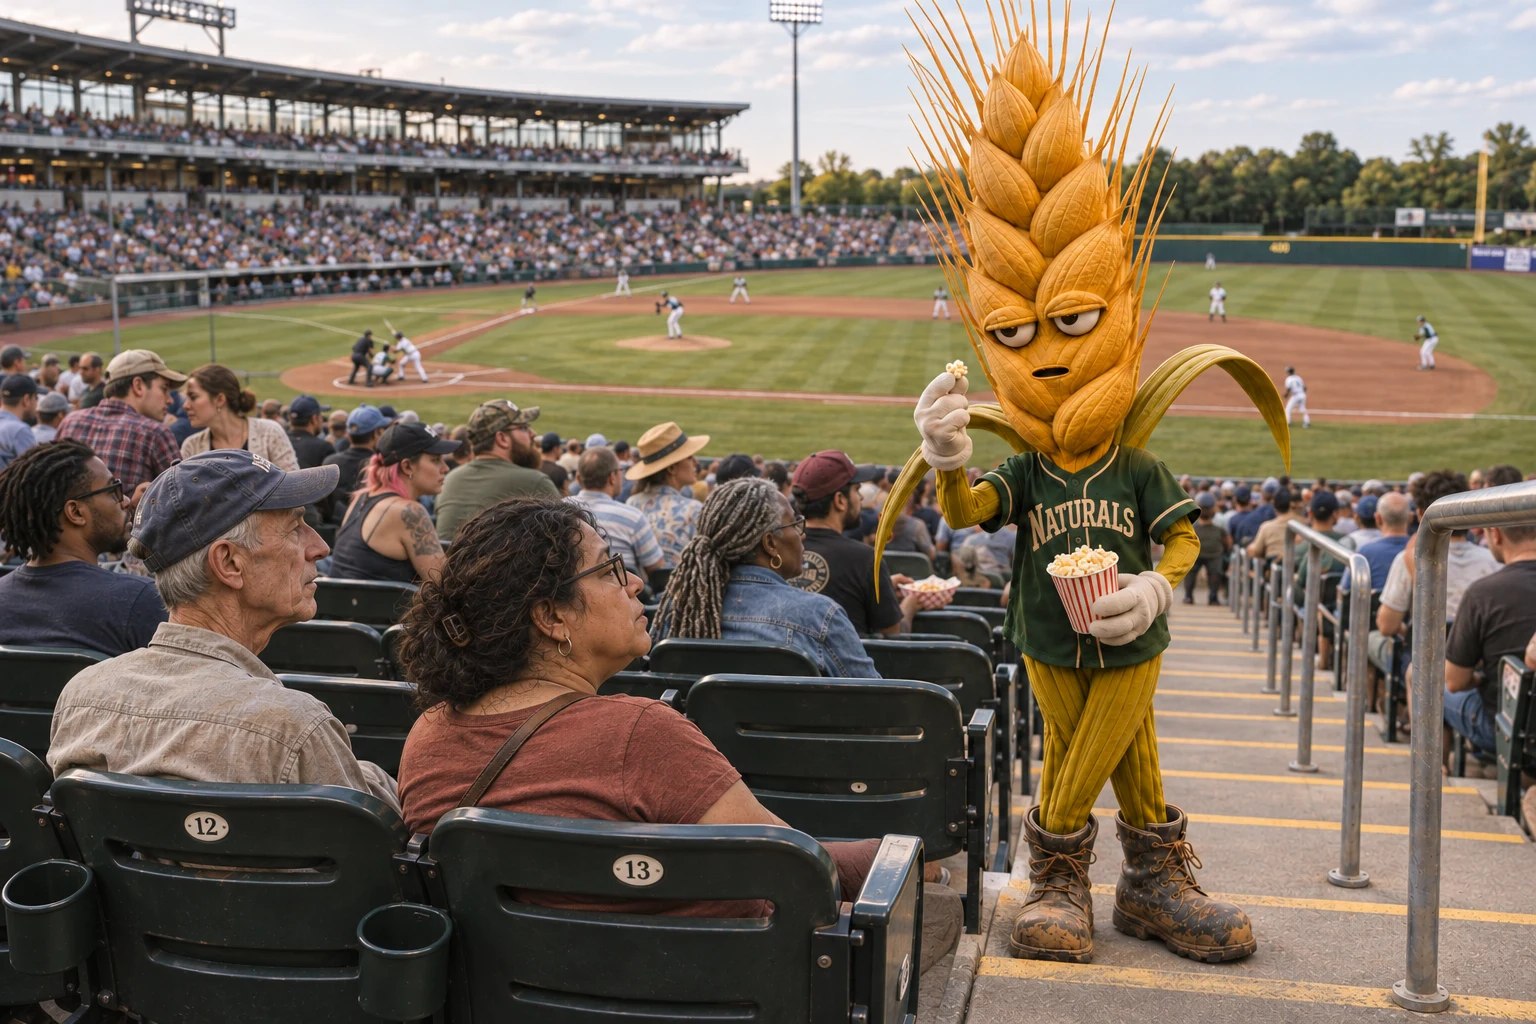
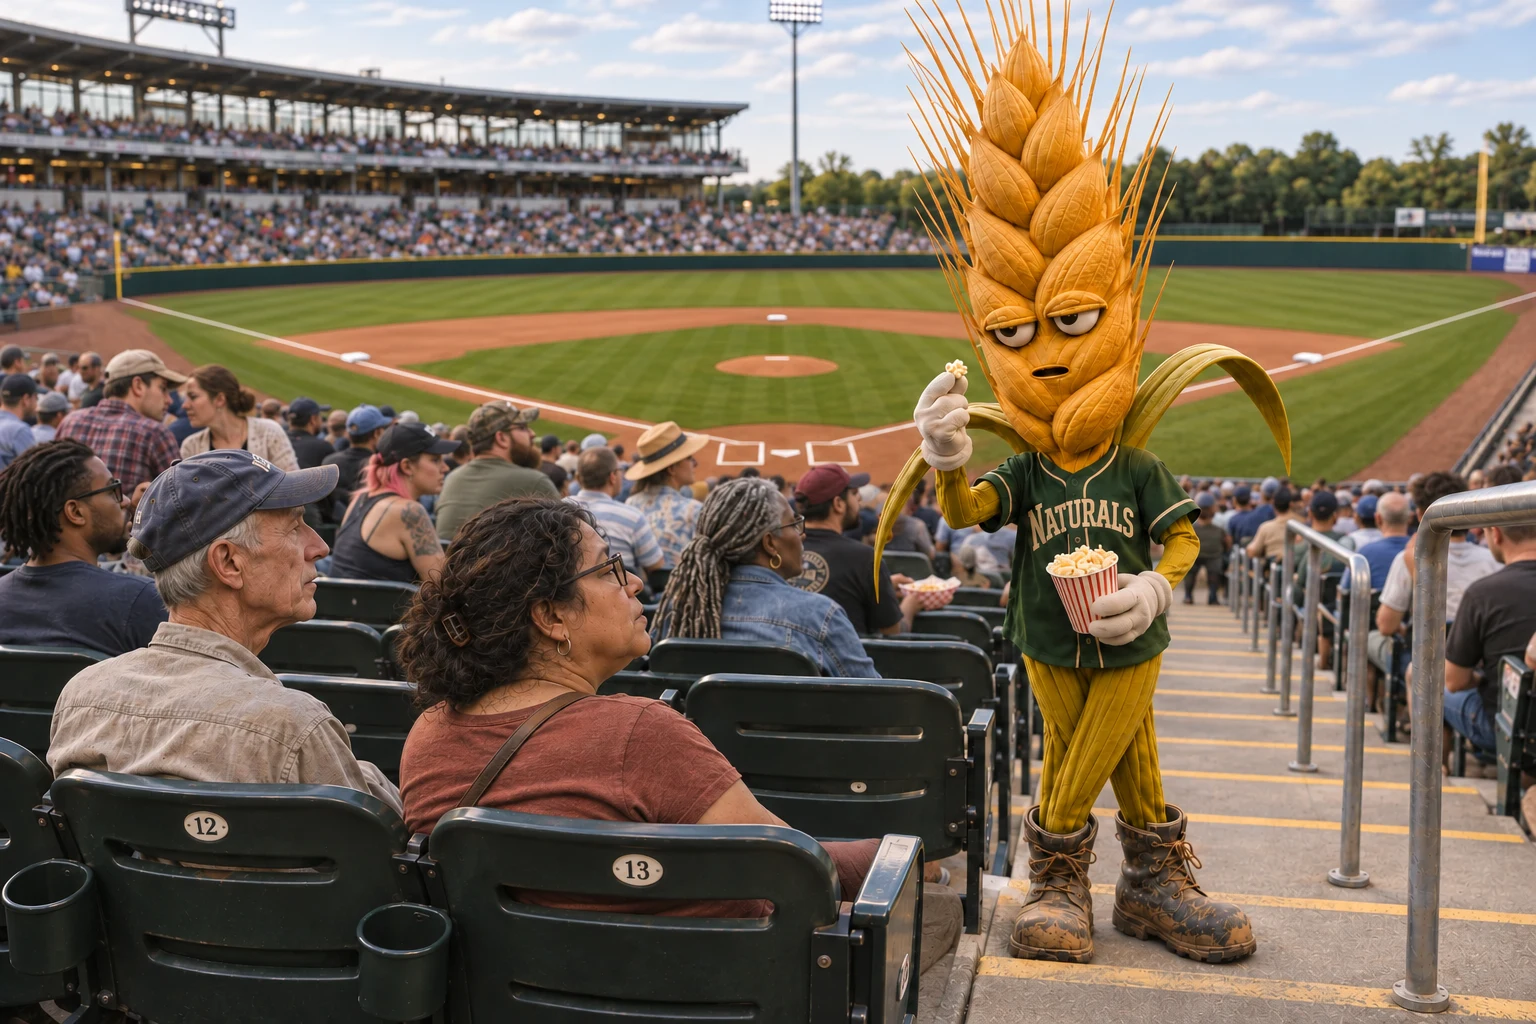
Correct the diamond behind Sprig and refresh both Louisville images

diff --git a/team-louisville-naturals.html b/team-louisville-naturals.html
@@ -14,4 +14,4 @@ main.louisville-page{display:block;max-width:1240px}.louisville-page>section{mar
 </header>
 <main class="louisville-page">
 <section class="team-hero" data-team-depth="image"><img class="team-hero-image" src="assets/teams/louisville-naturals/images/limestone-sessions-candid.webp" alt="A contemporary bluegrass crew plays to a busy concourse from the broad porch of the Limestone Sessions" width="1536" height="1024" fetchpriority="high"><div class="team-hero-shade"></div><div class="team-hero-inner"><div class="team-kicker">Louisville, Kentucky · Americas Division</div><h1>Louisville Naturals</h1><p>A porch set. A ballgame. Stay a while.</p><a href="#entertainment" style="color:white;text-decoration:underline">The Limestone Sessions →</a></div></section>
-<nav class="lou-nav" aria-label="Louisville sections"><a href="#season">Season</a><a href="#cards">Players</a><a href="#roster">Roster</a><a href="#entertainment">Limestone Sessions</a><a href="#big-soft">BIG SOFT</a><a href="#landing">The Big Soft Landing</a><a href="#donk">Flo Troup</a><a href="#voices">Game voices</a></nav><section class="panel full" id="season"><h2>Season snapshot</h2><div class="lou-copy"><p class="lou-meta" id="record-date">2026 season · Loading the current record</p><div class="summary"><div><strong id="stat-record">—</strong><span>Record</span></div><div><strong id="stat-pct">—</strong><span>Win %</span></div><div><strong id="stat-runs">—</strong><span>Runs</span></div><div><strong id="stat-allowed">—</strong><span>Allowed</span></div><div><strong id="stat-diff">—</strong><span>Difference</span></div></div><p><strong>Manager:</strong> Everett “Fieldnote” Lane · <strong>Home:</strong> The Limestone Grounds</p><a href="standings.html">View standings →</a></div></section><section class="panel full" id="cards"><h2>Players</h2><div class="lou-copy"><p>Click a card to flip it over. Claim a player and help build their story. Players and other artifacts across GLB can be claimed, curated and crafted — by you. Look for unclaimed artifacts, then click to claim, craft your submission, and submit it to the GLB Board for review. If accepted, you’ll receive a 16-character claim code and we’ll post the artifact with your content and an attribution to the User ID you provide.</p></div><div id="louisvilleCards" class="tpe-card-grid" aria-live="polite"><p>Loading the Louisville collection…</p></div><noscript><p class="lou-copy">Enable JavaScript to flip and claim cards. The complete roster is below.</p></noscript></section><section class="panel full" id="roster"><h2>Active roster</h2><div class="lou-table"><table><thead><tr><th>Player</th><th>Pos</th><th>B/T</th><th>Age</th><th>Card</th></tr></thead><tbody><tr><td><a href="player.html?team=louisville-naturals&amp;player=gabriel-ionescu">Gabriel Ionescu</a></td><td>SP</td><td>R/R</td><td>29</td><td><a href="#card-lou-01">LOU-01</a></td></tr><tr><td><a href="player.html?team=louisville-naturals&amp;player=mateo-alvarez">Mateo Álvarez</a></td><td>SP</td><td>L/L</td><td>27</td><td><a href="#card-lou-02">LOU-02</a></td></tr><tr><td><a href="player.html?team=louisville-naturals&amp;player=calvin-rhodes">Calvin Rhodes</a></td><td>SP</td><td>R/R</td><td>31</td><td><a href="#card-lou-03">LOU-03</a></td></tr><tr><td><a href="player.html?team=louisville-naturals&amp;player=santiago-correa">Santiago Correa</a></td><td>SP</td><td>R/R</td><td>26</td><td><a href="#card-lou-04">LOU-04</a></td></tr><tr><td><a href="player.html?team=louisville-naturals&amp;player=darius-okonkwo">Darius Okonkwo</a></td><td>SP</td><td>R/R</td><td>25</td><td><a href="#card-lou-05">LOU-05</a></td></tr><tr><td><a href="player.html?team=louisville-naturals&amp;player=evan-sutter">Evan Sutter</a></td><td>RP</td><td>R/R</td><td>28</td><td><a href="#card-lou-06">LOU-06</a></td></tr><tr><td><a href="player.html?team=louisville-naturals&amp;player=luis-delgado">Luis Delgado</a></td><td>RP</td><td>L/L</td><td>30</td><td><a href="#card-lou-07">LOU-07</a></td></tr><tr><td><a href="player.html?team=louisville-naturals&amp;player=kieran-walsh">Kieran Walsh</a></td><td>RP</td><td>R/R</td><td>27</td><td><a href="#card-lou-08">LOU-08</a></td></tr><tr><td><a href="player.html?team=louisville-naturals&amp;player=noah-bianchi">Noah Bianchi</a></td><td>C</td><td>R/R</td><td>29</td><td><a href="#card-lou-09">LOU-09</a></td></tr><tr><td><a href="player.html?team=louisville-naturals&amp;player=mateo-fernandez">Mateo Fernández</a></td><td>1B</td><td>L/R</td><td>32</td><td><a href="#card-lou-10">LOU-10</a></td></tr><tr><td><a href="player.html?team=louisville-naturals&amp;player=jalen-brooks">Jalen Brooks</a></td><td>2B</td><td>S/R</td><td>24</td><td><a href="#card-lou-11">LOU-11</a></td></tr><tr><td><a href="player.html?team=louisville-naturals&amp;player=rafael-costa">Rafael Costa</a></td><td>SS</td><td>R/R</td><td>26</td><td><a href="#card-lou-12">LOU-12</a></td></tr><tr><td><a href="player.html?team=louisville-naturals&amp;player=dominic-russo">Dominic Russo</a></td><td>3B</td><td>R/R</td><td>28</td><td><a href="#card-lou-13">LOU-13</a></td></tr><tr><td><a href="player.html?team=louisville-naturals&amp;player=andre-wallace">Andre Wallace</a></td><td>CF</td><td>R/R</td><td>27</td><td><a href="#card-lou-14">LOU-14</a></td></tr><tr><td><a href="player.html?team=louisville-naturals&amp;player=tomas-rivas">Tomás Rivas</a></td><td>LF</td><td>L/L</td><td>25</td><td><a href="#card-lou-15">LOU-15</a></td></tr><tr><td><a href="player.html?team=louisville-naturals&amp;player=blake-harrison">Blake Harrison</a></td><td>RF</td><td>R/R</td><td>31</td><td><a href="#card-lou-16">LOU-16</a></td></tr></tbody></table></div></section><section class="panel full" id="results"><h2>Recent results</h2><div class="lou-copy"><div id="recent-results"><a href="schedule.html?team=louisville-naturals">View the league schedule →</a></div></div></section><section class="panel full" id="entertainment"><h2>The Limestone Sessions</h2><div class="lou-copy"><figure><img src="assets/teams/louisville-naturals/images/limestone-sessions-candid.webp" alt="Fans gather, chat and pass through as a contemporary bluegrass crew plays from the concourse porch" width="1536" height="1024" loading="lazy"></figure><span class="lou-meta">Resident entertainment · Contemporary bluegrass</span><p>Fiddle, banjo, mandolin, acoustic guitar and upright bass spill off the wide porch. Close harmonies ride above the picking; people gather near the stage, stop with their food or listen from the concourse tables.</p><p>The crew brings a raw edge to the set. The porch belongs to the park, with the game still in view beyond the crowd.</p></div></section><section class="panel full" id="big-soft"><h2>BIG SOFT</h2><div class="lou-copy"><span class="lou-meta">Mattresses · Pillows · Bedding</span><h3>Comfort on an unreasonable scale.</h3><p>BIG SOFT makes mattresses, pillows and bedding. Its cream-and-burgundy lettering turns up on oversized cushions, the lounge terrace and one extremely upholstered Cadillac.</p><p>The brand takes comfort seriously. Everyone else is welcome to find that funny.</p></div></section><section class="panel full" id="landing"><h2>The Big Soft Landing</h2><div class="lou-copy"><figure><img src="assets/teams/louisville-naturals/images/big-soft-landing-candid.webp" alt="Fans watch baseball and talk from oversized cream-and-burgundy sofas on the Big Soft Landing terrace" width="1536" height="1024" loading="lazy"></figure><span class="lou-meta">BIG SOFT fan experience · Concourse terrace</span><p>Enormous sofas and quilted loungers overlook the field. Take a seat, disappear slightly into the upholstery, and keep an eye on the game. The armrests are bigger than some people’s seats elsewhere in the park.</p></div></section><section class="panel full" id="donk"><h2>DONK · Flo Troup</h2><div class="lou-copy"><figure><img src="assets/teams/louisville-naturals/images/flo-troup-big-soft-cadillac.webp" alt="Flo Troup in her quilted cream-and-burgundy Cadillac beside the tall DONK measuring tower" width="1536" height="1024" loading="lazy"></figure><span class="lou-meta">Driver · Flo Troup</span><h3>A Cadillac with excellent lumbar support.</h3><p>Flo brings an older Cadillac Coupe de Ville in cream and burgundy, with quilted body panels, oversized polished wheels and BIG SOFT across the doors. A small pillow sits in the plush rear cabin.</p><p>She works the hydraulics from the driver’s seat while the crew watches the DONK height gauge. Flo remains almost impressively unimpressed.</p></div></section><section class="panel full" id="stadium"><h2>The Limestone Grounds</h2><div class="lou-copy"><figure><img src="club-louisville-naturals-stadium.png" alt="The Limestone Grounds baseball park" loading="lazy"></figure><p>Stone, grass and open sightlines. The broad concourse connects the seating bowl, the Sessions porch and the Big Soft Landing.</p></div></section><section class="panel full" id="voices"><h2>Game voices</h2><div class="lou-copy"><div class="lou-split"><article><img class="portrait" src="club-louisville-naturals-broadcast.png" alt="Hank Mercer at the broadcast microphone" loading="lazy"><h3>Hank Mercer</h3><p><strong>Play-by-play.</strong> Keeps the count clear and leaves room for the crowd.</p><div id="claim-lou-broadcast" class="glb-voice-claim"></div></article><article><img class="portrait" src="club-louisville-naturals-announcer.png" alt="Casey Wilder, in-stadium announcer" loading="lazy"><h3>Casey Wilder</h3><p><strong>In-stadium announcer.</strong> Lineups, substitutions and announcements carry across the Grounds.</p><div id="claim-lou-announcer" class="glb-voice-claim"></div></article></div></div></section><section class="panel full" id="mascot"><h2>Sprig</h2><div class="lou-copy"><figure><img src="assets/teams/louisville-naturals/images/sprig-popcorn-candid.webp?v=1" alt="Sprig, Louisville’s wheat-headed mascot in a green Naturals jersey and work boots, inspects popcorn beside fans watching the game" width="1536" height="1024" loading="lazy"></figure><p>A towering head of wheat, a green Naturals jersey and well-worn work boots. Sprig makes the rounds with a groundskeeper’s broom and a look of permanent mild suspicion. A stray piece of popcorn merits a full inspection.</p></div></section><section class="panel full" id="traditions"><h2>The Yard Walkers</h2><div class="lou-copy"><figure><img src="assets/teams/louisville-naturals/images/yard-walkers-candid.webp" alt="Louisville Naturals supporters in the stands" loading="lazy"></figure><p>The Yard Walkers keep their route around the park: a stop at the rail, a conversation on the concourse, a song before returning to their seats.</p></div></section></main><footer class="lou-footer"><strong>GLOBAL LEAGUE BASEBALL · LOUISVILLE NATURALS</strong><p><a href="how-it-works.html">Help build the universe — here’s how →</a></p></footer><script src="scripts/glb-records.js?v=1"></script><script src="scripts/player-cards.js?v=profiles-20261114"></script><script src="scripts/taipei-cards.js?v=profiles-20261114"></script><script src="scripts/louisville-naturals.js?v=cards-1"></script><script src="scripts/glb-ticker.js?v=20261114-offseason"></script><script src="scripts/participation.js?v=20261113-members"></script><script src="scripts/compact-clubs.js?v=profiles-20261114"></script></body></html>
+<nav class="lou-nav" aria-label="Louisville sections"><a href="#season">Season</a><a href="#cards">Players</a><a href="#roster">Roster</a><a href="#entertainment">Limestone Sessions</a><a href="#big-soft">BIG SOFT</a><a href="#landing">The Big Soft Landing</a><a href="#donk">Flo Troup</a><a href="#voices">Game voices</a></nav><section class="panel full" id="season"><h2>Season snapshot</h2><div class="lou-copy"><p class="lou-meta" id="record-date">2026 season · Loading the current record</p><div class="summary"><div><strong id="stat-record">—</strong><span>Record</span></div><div><strong id="stat-pct">—</strong><span>Win %</span></div><div><strong id="stat-runs">—</strong><span>Runs</span></div><div><strong id="stat-allowed">—</strong><span>Allowed</span></div><div><strong id="stat-diff">—</strong><span>Difference</span></div></div><p><strong>Manager:</strong> Everett “Fieldnote” Lane · <strong>Home:</strong> The Limestone Grounds</p><a href="standings.html">View standings →</a></div></section><section class="panel full" id="cards"><h2>Players</h2><div class="lou-copy"><p>Click a card to flip it over. Claim a player and help build their story. Players and other artifacts across GLB can be claimed, curated and crafted — by you. Look for unclaimed artifacts, then click to claim, craft your submission, and submit it to the GLB Board for review. If accepted, you’ll receive a 16-character claim code and we’ll post the artifact with your content and an attribution to the User ID you provide.</p></div><div id="louisvilleCards" class="tpe-card-grid" aria-live="polite"><p>Loading the Louisville collection…</p></div><noscript><p class="lou-copy">Enable JavaScript to flip and claim cards. The complete roster is below.</p></noscript></section><section class="panel full" id="roster"><h2>Active roster</h2><div class="lou-table"><table><thead><tr><th>Player</th><th>Pos</th><th>B/T</th><th>Age</th><th>Card</th></tr></thead><tbody><tr><td><a href="player.html?team=louisville-naturals&amp;player=gabriel-ionescu">Gabriel Ionescu</a></td><td>SP</td><td>R/R</td><td>29</td><td><a href="#card-lou-01">LOU-01</a></td></tr><tr><td><a href="player.html?team=louisville-naturals&amp;player=mateo-alvarez">Mateo Álvarez</a></td><td>SP</td><td>L/L</td><td>27</td><td><a href="#card-lou-02">LOU-02</a></td></tr><tr><td><a href="player.html?team=louisville-naturals&amp;player=calvin-rhodes">Calvin Rhodes</a></td><td>SP</td><td>R/R</td><td>31</td><td><a href="#card-lou-03">LOU-03</a></td></tr><tr><td><a href="player.html?team=louisville-naturals&amp;player=santiago-correa">Santiago Correa</a></td><td>SP</td><td>R/R</td><td>26</td><td><a href="#card-lou-04">LOU-04</a></td></tr><tr><td><a href="player.html?team=louisville-naturals&amp;player=darius-okonkwo">Darius Okonkwo</a></td><td>SP</td><td>R/R</td><td>25</td><td><a href="#card-lou-05">LOU-05</a></td></tr><tr><td><a href="player.html?team=louisville-naturals&amp;player=evan-sutter">Evan Sutter</a></td><td>RP</td><td>R/R</td><td>28</td><td><a href="#card-lou-06">LOU-06</a></td></tr><tr><td><a href="player.html?team=louisville-naturals&amp;player=luis-delgado">Luis Delgado</a></td><td>RP</td><td>L/L</td><td>30</td><td><a href="#card-lou-07">LOU-07</a></td></tr><tr><td><a href="player.html?team=louisville-naturals&amp;player=kieran-walsh">Kieran Walsh</a></td><td>RP</td><td>R/R</td><td>27</td><td><a href="#card-lou-08">LOU-08</a></td></tr><tr><td><a href="player.html?team=louisville-naturals&amp;player=noah-bianchi">Noah Bianchi</a></td><td>C</td><td>R/R</td><td>29</td><td><a href="#card-lou-09">LOU-09</a></td></tr><tr><td><a href="player.html?team=louisville-naturals&amp;player=mateo-fernandez">Mateo Fernández</a></td><td>1B</td><td>L/R</td><td>32</td><td><a href="#card-lou-10">LOU-10</a></td></tr><tr><td><a href="player.html?team=louisville-naturals&amp;player=jalen-brooks">Jalen Brooks</a></td><td>2B</td><td>S/R</td><td>24</td><td><a href="#card-lou-11">LOU-11</a></td></tr><tr><td><a href="player.html?team=louisville-naturals&amp;player=rafael-costa">Rafael Costa</a></td><td>SS</td><td>R/R</td><td>26</td><td><a href="#card-lou-12">LOU-12</a></td></tr><tr><td><a href="player.html?team=louisville-naturals&amp;player=dominic-russo">Dominic Russo</a></td><td>3B</td><td>R/R</td><td>28</td><td><a href="#card-lou-13">LOU-13</a></td></tr><tr><td><a href="player.html?team=louisville-naturals&amp;player=andre-wallace">Andre Wallace</a></td><td>CF</td><td>R/R</td><td>27</td><td><a href="#card-lou-14">LOU-14</a></td></tr><tr><td><a href="player.html?team=louisville-naturals&amp;player=tomas-rivas">Tomás Rivas</a></td><td>LF</td><td>L/L</td><td>25</td><td><a href="#card-lou-15">LOU-15</a></td></tr><tr><td><a href="player.html?team=louisville-naturals&amp;player=blake-harrison">Blake Harrison</a></td><td>RF</td><td>R/R</td><td>31</td><td><a href="#card-lou-16">LOU-16</a></td></tr></tbody></table></div></section><section class="panel full" id="results"><h2>Recent results</h2><div class="lou-copy"><div id="recent-results"><a href="schedule.html?team=louisville-naturals">View the league schedule →</a></div></div></section><section class="panel full" id="entertainment"><h2>The Limestone Sessions</h2><div class="lou-copy"><figure><img src="assets/teams/louisville-naturals/images/limestone-sessions-candid.webp" alt="Fans gather, chat and pass through as a contemporary bluegrass crew plays from the concourse porch" width="1536" height="1024" loading="lazy"></figure><span class="lou-meta">Resident entertainment · Contemporary bluegrass</span><p>Fiddle, banjo, mandolin, acoustic guitar and upright bass spill off the wide porch. Close harmonies ride above the picking; people gather near the stage, stop with their food or listen from the concourse tables.</p><p>The crew brings a raw edge to the set. The porch belongs to the park, with the game still in view beyond the crowd.</p></div></section><section class="panel full" id="big-soft"><h2>BIG SOFT</h2><div class="lou-copy"><span class="lou-meta">Mattresses · Pillows · Bedding</span><h3>Comfort on an unreasonable scale.</h3><p>BIG SOFT makes mattresses, pillows and bedding. Its cream-and-burgundy lettering turns up on oversized cushions, the lounge terrace and one extremely upholstered Cadillac.</p><p>The brand takes comfort seriously. Everyone else is welcome to find that funny.</p></div></section><section class="panel full" id="landing"><h2>The Big Soft Landing</h2><div class="lou-copy"><figure><img src="assets/teams/louisville-naturals/images/big-soft-landing-candid.webp" alt="Fans watch baseball and talk from oversized cream-and-burgundy sofas on the Big Soft Landing terrace" width="1536" height="1024" loading="lazy"></figure><span class="lou-meta">BIG SOFT fan experience · Concourse terrace</span><p>Enormous sofas and quilted loungers overlook the field. Take a seat, disappear slightly into the upholstery, and keep an eye on the game. The armrests are bigger than some people’s seats elsewhere in the park.</p></div></section><section class="panel full" id="donk"><h2>DONK · Flo Troup</h2><div class="lou-copy"><figure><img src="assets/teams/louisville-naturals/images/flo-troup-big-soft-cadillac.webp" alt="Flo Troup in her quilted cream-and-burgundy Cadillac beside the tall DONK measuring tower" width="1536" height="1024" loading="lazy"></figure><span class="lou-meta">Driver · Flo Troup</span><h3>A Cadillac with excellent lumbar support.</h3><p>Flo brings an older Cadillac Coupe de Ville in cream and burgundy, with quilted body panels, oversized polished wheels and BIG SOFT across the doors. A small pillow sits in the plush rear cabin.</p><p>She works the hydraulics from the driver’s seat while the crew watches the DONK height gauge. Flo remains almost impressively unimpressed.</p></div></section><section class="panel full" id="stadium"><h2>The Limestone Grounds</h2><div class="lou-copy"><figure><img src="club-louisville-naturals-stadium.png?v=2" alt="The Limestone Grounds baseball park" loading="lazy"></figure><p>Stone, grass and open sightlines. The broad concourse connects the seating bowl, the Sessions porch and the Big Soft Landing.</p></div></section><section class="panel full" id="voices"><h2>Game voices</h2><div class="lou-copy"><div class="lou-split"><article><img class="portrait" src="club-louisville-naturals-broadcast.png" alt="Hank Mercer at the broadcast microphone" loading="lazy"><h3>Hank Mercer</h3><p><strong>Play-by-play.</strong> Keeps the count clear and leaves room for the crowd.</p><div id="claim-lou-broadcast" class="glb-voice-claim"></div></article><article><img class="portrait" src="club-louisville-naturals-announcer.png" alt="Casey Wilder, in-stadium announcer" loading="lazy"><h3>Casey Wilder</h3><p><strong>In-stadium announcer.</strong> Lineups, substitutions and announcements carry across the Grounds.</p><div id="claim-lou-announcer" class="glb-voice-claim"></div></article></div></div></section><section class="panel full" id="mascot"><h2>Sprig</h2><div class="lou-copy"><figure><img src="assets/teams/louisville-naturals/images/sprig-popcorn-candid.webp?v=2" alt="Sprig, Louisville’s wheat-headed mascot in a green Naturals jersey and work boots, inspects popcorn beside fans watching the game" width="1536" height="1024" loading="lazy"></figure><p>A towering head of wheat, a green Naturals jersey and well-worn work boots. Sprig makes the rounds with a groundskeeper’s broom and a look of permanent mild suspicion. A stray piece of popcorn merits a full inspection.</p></div></section><section class="panel full" id="traditions"><h2>The Yard Walkers</h2><div class="lou-copy"><figure><img src="assets/teams/louisville-naturals/images/yard-walkers-candid.webp" alt="Louisville Naturals supporters in the stands" loading="lazy"></figure><p>The Yard Walkers keep their route around the park: a stop at the rail, a conversation on the concourse, a song before returning to their seats.</p></div></section></main><footer class="lou-footer"><strong>GLOBAL LEAGUE BASEBALL · LOUISVILLE NATURALS</strong><p><a href="how-it-works.html">Help build the universe — here’s how →</a></p></footer><script src="scripts/glb-records.js?v=1"></script><script src="scripts/player-cards.js?v=profiles-20261114"></script><script src="scripts/taipei-cards.js?v=profiles-20261114"></script><script src="scripts/louisville-naturals.js?v=cards-1"></script><script src="scripts/glb-ticker.js?v=20261114-offseason"></script><script src="scripts/participation.js?v=20261113-members"></script><script src="scripts/compact-clubs.js?v=profiles-20261114"></script></body></html>
